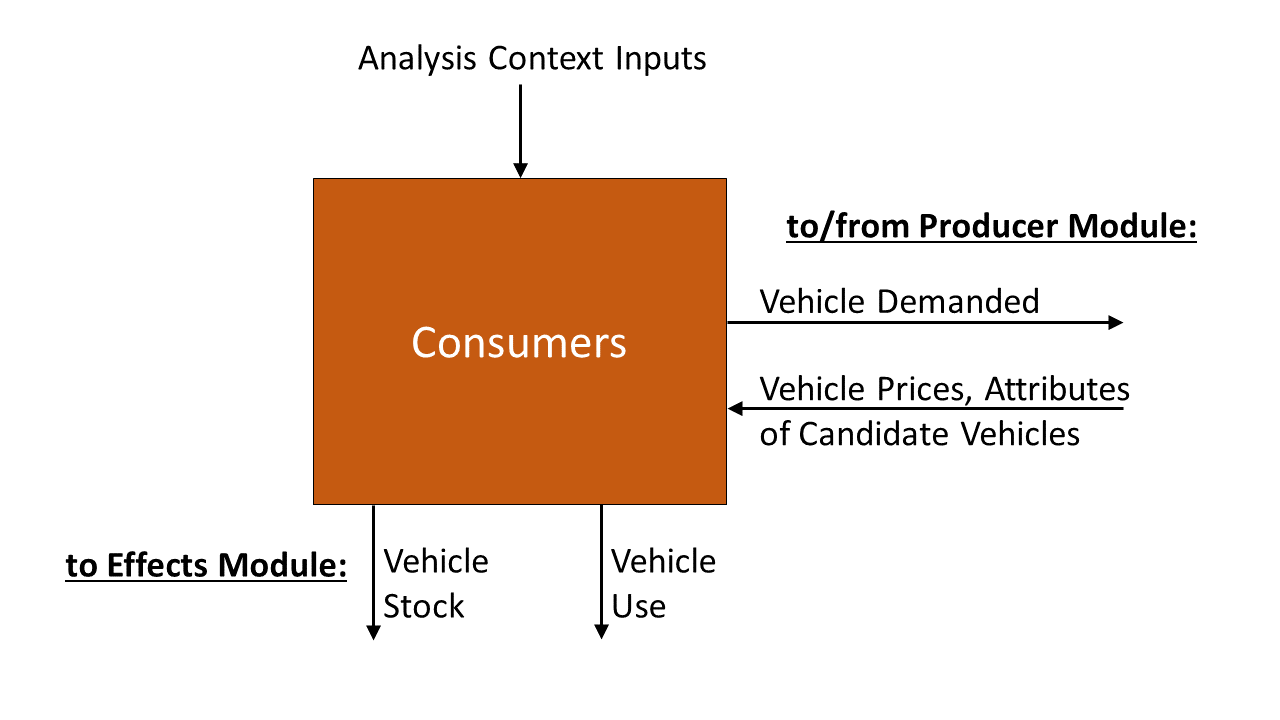
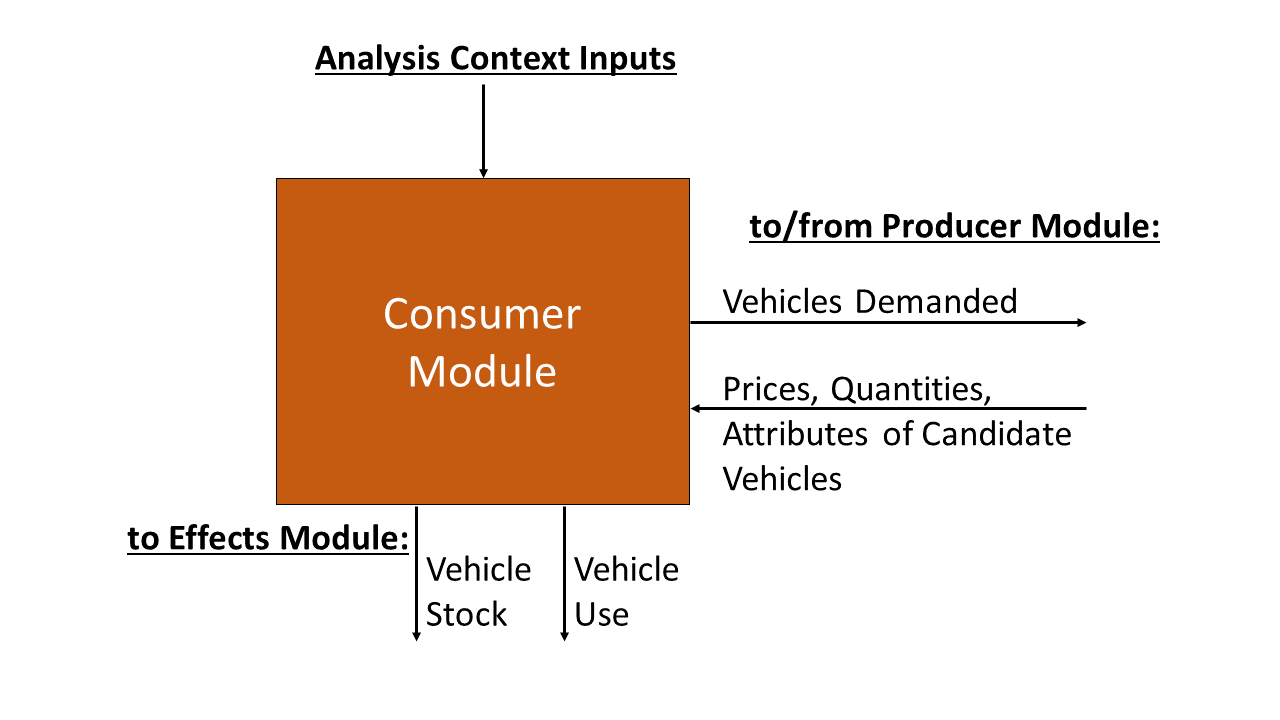
Documentation diagram updates.

diff --git a/doc/source/archalgo.rst b/doc/source/archalgo.rst
@@ -23,7 +23,7 @@ The model boundary of OMEGA as illustrated in :numref:`al_label_modelboundary` d
 
 .. admonition:: Demo example: Analysis timeframe
 
-    For the demo analysis, the base year is defined as calendar year 2019. The year immediately following the base year is automatically used as the analysis start year. The analysis final year in this example is set to 2050 in ‘demo_batch.csv’ input file. Therefore, the analysis timeframe is a 31-year span, inclusive of 2020 and 2050. The selection of 2019 as the base year is automatically derived from the last year of historical data contained in the ‘vehicles.csv’ and ‘ghg_credits.csv’ input files which include the attributes and counts for registered vehicles, and producers’ banked Mg CO2e credits as they actually existed. Note that for this example, base year vehicle inputs are limited to MY2019 new vehicles and their attributes. For an analysis which is intended to project the impacts of various policy alternatives on the reregistration and use of earlier model years, the base year inputs would describe the entire stock of registered vehicles, including MY2018, MY2017, etc.
+    For the demo analysis, the base year is defined as calendar year 2019. The year immediately following the base year is automatically used as the analysis start year. The analysis final year in this example is set to 2050 in the ‘demo_batch.csv’ input file. Therefore, the analysis timeframe is a 31-year span, inclusive of 2020 and 2050. The selection of 2019 as the base year is automatically derived from the last year of historical data contained in the ‘vehicles.csv’ and ‘ghg_credits.csv’ input files. These inputs describe the key attributes and counts for registered vehicles, and producers’ banked Mg CO2e credits as they actually existed. Note that for this example, base year vehicle inputs are limited to MY2019 new vehicles and their attributes. For an analysis which is intended to project the impacts of various policy alternatives on the reregistration and use of earlier model years, the base year inputs would describe the entire stock of registered vehicles, including MY2018, MY2017, etc.
 
 .. sidebar:: Analysis start year and the base year
 
@@ -47,7 +47,7 @@ An OMEGA analysis can be conducted at various levels of resolution depending on 
 
 **Market class resolution:** The level of detail, and type of information used within the Producer and Consumer modules is different. For example, we assume that consumers are not aware of the compliance implications and detailed design choices made by the producer, unless those factors are evident in the price, availability, or key attributes of a vehicle. Therefore, consumer decisions regarding the demanded shares of vehicles are modeled based on vehicle characteristics aggregated at the market class level. The user's determination of the appropriate resolution for the market classes will depend on the chosen specification for share response modeling within the Consumer Module. Note that within the Consumer Module, even while share response is modeled at the market class level, other consumer decisions (like reregistration and use) can be based on more detailed vehicle-level information.
 
-**Producer resolution:** The producers in OMEGA are the regulated entities subject to the policy alternatives being analyzed, and are responsible (together with the consumers and policy) for the decisions about the quantities and characteristics of the vehicles produced. The user can choose to model the producers either as an aggregate entity with the assumption that compliance credits are available in an unrestricted market, or as individual entities.
+**Producer resolution:** The producers in OMEGA are the regulated entities subject to the policy alternatives being analyzed, and are responsible (together with the consumers and policy) for the decisions about the quantities and characteristics of the vehicles produced. The user can choose to model the producers either as an aggregate entity with the assumption that compliance credits are available in an unrestricted market (i.e. 'perfect trading'), or as individual entities with no trading between firms.
 
 .. sidebar:: The Producer's view of consumers
 
@@ -55,21 +55,22 @@ An OMEGA analysis can be conducted at various levels of resolution depending on 
 
 **Consumer resolution:** The approach to account for heterogeneity in consumers is an important consideration when modeling the interaction between producer decisions and the demand for vehicles. By taking advantage of user-definable submodules, a developer can set-up the Consumer Module to account for different responses between consumer segments.
 
-Whatever level of resolution is chosen for an analysis, internal to the model OMEGA will use the information that is suitable for a particular modeling subtask, while still retaining unused detail for downstream modeling and outputting results. For example:
+Whatever the level of resolution, the detail provided in the inputs 1) must meet the requirements of the various modeling subtasks, and 2) will determine the level of detail of the outputs. When preparing analysis inputs, it is therefore necessary to consider the appropriate resolution for each module. For example:
 
-* Within the Policy Module, vehicle details are needed to calculate the target and achieved compliance emissions. This might include information about regulatory classification and any vehicle attributes that are used to define a GHG standard. It is not necessary to differentiate vehicles by production cost, for example, for the purpose of this module’s internal calculations, but that information is kept with the vehicle data object for use in the Producer Module.
+* Within the Policy Module, vehicle details are needed to calculate the target and achieved compliance emissions. This might include information about regulatory classification and any vehicle attributes that are used to define a GHG standard.
 
-* Within the Producer Module, the modeling of producer decisions requires sufficient detail to choose between compliance options based the GHG credits and generalized producer cost associated with each option. Under a fleet averaging policy which does not place any limits on credit transfers between vehicles, OMEGA compares compliance options using overall cost and GHG credits, without the need to consider the details of each vehicle's contribution. Still, the details for individual vehicle attributes are retained for use in the Consumer, Policy, and Effects modules.
+* Within the Producer Module, the modeling of producer decisions requires sufficient detail to choose between compliance options based the GHG credits and generalized producer cost associated with each option.
 
-* Within the Consumer Module, the modeling of consumer decisions requires sufficient detail to distinguish between market classes for representing both the purchase choices among different classes, and the reregistration and use of vehicles within a given class. Because the modeled consumer decisions are not a direct function of the policy definition, it is not necessary to distinguish between, for example, regulatory classes within this module. However, because that regulatory class detail is needed within the Producer and Policy modules, OMEGA retains that vehicle data even within the Consumer Module.
+* Within the Consumer Module, the modeling of consumer decisions requires sufficient detail to distinguish between market classes for representing both the purchase choices among different classes, and the reregistration and use of vehicles within a given class.
 
 .. admonition:: Demo example: Modeling resolution
 
     .. csv-table::
         :widths: auto
+        :header-rows: 1
 
         Modeling element,Where is the resolution defined?,Description of resolution in the demo
-        Vehicle resolution,vehicles.csv,51 2009 base year vehicles differentiated by context size class ('Small Crossover' 'Large Pickup' etc) manufacturer_id and electrification_class ('N' 'HEV' 'EV')
+        Vehicle resolution,vehicles.csv,51 2019 base year vehicles differentiated by context size class ('Small Crossover' 'Large Pickup' etc) manufacturer_id and electrification_class ('N' 'HEV' 'EV')
         Technology package resolution:,simulated_vehicles.csv,578088 candidate vehicles for the analysis timeframe 2020 through 2050 with technology packages for ICE and BEV powertrains
         Technology component resolution:,simulated_vehicles.csv,detailed flags for identifying technology package contents of ac_leakage ac_efficiency high_eff_alternator start_stop hev phev bev weight_reduction  deac_pd deac_fc cegr atk2 gdi turb12 turb11
         Market class resolution,consumer.market_classes.py user-definable submodule and market_classes.csv,4 classes in 2 nested levels with BEV and ICE categories within first tier hauling and nonhauling categories
@@ -130,6 +131,15 @@ Policy Module
 ^^^^^^^^^^^^^
 OMEGA's primary function is to help evaluate and compare policy alternatives which may vary in terms of regulatory program structure and stringency. Because we cannot anticipate all possible policy elements in advance, the code within the Policy Module is generic, to the greatest extent possible. This leaves most of the policy definition to be defined by the user as inputs to the model. Where regulatory program elements cannot be easily provided as inputs, for example the equations used to calculate GHG target values, the code has been organized as user-definable submodules. Much like the definitions recorded in the Code of Federal Regulations (CFR), the combination of inputs and user-definable submodules must unambiguously describe the methodologies for determining vehicle-level emissions targets and certification values, as well as the accounting rules for determining how individual vehicles contribute to a manufacturer's overall compliance determination.
 
+
+:numref:`al_label_plcym_ov` shows the flow of inputs and outputs for the Policy Module. As shown in this simple representation, the policy targets and achieved certification values are output from the module, as a function of the attributes of candidate vehicle presented by the Producer Module.
+
+.. _al_label_plcym_ov:
+.. figure:: _static/al_figures/policymod_ov.png
+    :align: center
+
+    Overview of the Policy Module
+
 In this documentation, *policy alternatives* refer only to what is being evaluated in a particular model run. There will also be relevant inputs and assumptions which are technically policies but are assumed to be fixed (i.e. exogenous) for a given comparison of alternatives. Such assumptions are defined by the user in the *analysis context*, and may reflect a combination of local, state, and federal programs that influence the transportation sector through regulatory and market-based mechanisms. .. todo: [[add examples, and links]] A comparison of policy alternatives requires the user to specify a no-action, or baseline policy, and one or more action alternatives.
 
 Policy alternatives that can be defined within OMEGA fall into two categories: those that involve fleet average emissions standards and rules for the accounting of compliance credits, and those that specify a required share of a specific technology. OMEGA can model either category as an independent alternative, or model both categories together; for example, in the case of a policy which requires a minimum share of a technology while still satisfying fleet averaging requirements.
@@ -139,7 +149,7 @@ In this type of policy, the key principal is that the compliance status of a man
 .. todo: [[insert example transaction and balance tables]]
 
 
-OMEGA is designed so that within an analysis year, credits from all the producer’s vehicles are counted without limitations towards the producer's credit bank. This program feature is known as *fleet averaging*, where vehicles with positive credits may contribute to offset other vehicles with negative credits. The OMEGA model calculates overall credits earned in an analysis year as the difference between the aggregate certification emissions minus the aggregate target emissions. An alternative approach of calculating overall credits as the sum of individual vehicle credits might seem more straightforward, and while technically possible, it is not used for several reasons. First, some credits, such as those generated by advanced technology incentive multipliers, are not easily accounted for on a per-vehicle basis. The transfer of credits between producers can be simulated in OMEGA by representing multiple regulated entities as a single producer, under an assumption that there is no cost or limitation to the transfer of compliance credits among entities. OMEGA is not designed to explicitly model any strategic considerations involved with the transfer of credits between producers. Emissions standards are defined in OMEGA using a range of policy elements, including:
+OMEGA is designed so that within an analysis year, credits from all the producer’s vehicles are counted without limitations towards the producer's credit bank. This program feature is known as *fleet averaging*, where vehicles with positive credits may contribute to offset other vehicles with negative credits. The OMEGA model calculates overall credits earned in an analysis year as the difference between the aggregate certification emissions minus the aggregate target emissions. An alternative approach of calculating overall credits as the sum of individual vehicle credits might seem more straightforward, and while technically possible, it is not used for several reasons. First, some credits, such as those generated by advanced technology incentive multipliers, are not easily accounted for on a per-vehicle basis. The transfer of credits between producers can be simulated in OMEGA by representing multiple regulated entities as a hypothetical 'consolidated' producer, under an assumption that there is no cost or limitation to the transfer of compliance credits among entities. OMEGA is not designed to explicitly model any strategic considerations involved with the transfer of credits between producers. Emissions standards are defined in OMEGA using a range of policy elements, including:
 
 * rules for the accounting of upstream emissions
 * definition of compliance incentives, like multipliers
@@ -168,7 +178,7 @@ OMEGA is designed so that within an analysis year, credits from all the producer
     [add example details]
 
 **Policy alternatives requiring specific technologies:**
-This type of policy requires all, or a portion, of producer’s vehicles to have particular technologies. OMEGA treats these policy requirements as constraints on the producer’s design options. This type of policy alternative input can be defined either separately, or together with a fleet averaging emissions standard; for example, a minimum Zero Emission Vehicle (ZEV) share requirement could be combined with an emissions standard where the certification emissions associated with ZEVs are counted towards the producer’s achieved compliance value.
+This type of policy requires all, or a portion, of a producer’s vehicles to have particular technologies. OMEGA treats these policy requirements as constraints on the producer’s design options. This type of policy alternative input can be defined either separately, or together with a fleet averaging emissions standard; for example, a minimum Zero Emission Vehicle (ZEV) share requirement could be combined with an emissions standard where the certification emissions associated with ZEVs are counted towards the producer’s achieved compliance value.
 
 
 .. admonition:: Demo example: Required sales share
@@ -176,7 +186,7 @@ This type of policy requires all, or a portion, of producer’s vehicles to have
     [add example details]
 
 **Policy representation in the analysis context:**
-Some policies are not modeled in OMEGA as policy alternatives, either because the policy is not aimed directly at the producer as a regulated entity, or because the particular OMEGA analysis is not attempting to evaluate the impact of that policy relative to other alternatives. Still, it is important that the Analysis Context inputs are able to reflect any policies that might significantly influence the producer or consumer decisions. Some examples include:
+Some policies are not modeled in OMEGA as policy alternatives, either because the policy is not aimed directly at the producer as a regulated entity, or because the particular OMEGA analysis is not attempting to evaluate the impact of that policy relative to other alternatives. However, even when a policy is not reflected in any of the analyzed policy alternatives, it may still be appropriate to represent that policy in the Analysis Context inputs. This is especially true when that external policy (or policies) might significantly influence the producer or consumer decisions. Some examples include:
 
 * Fuel tax policy
 * State and local ZEV policies
@@ -460,7 +470,7 @@ or cost effects and physical effects. The Effects Module builds on the outputs o
 context inputs as shown in :numref:`effects_module_figure`.
 
 .. _effects_module_figure:
-.. figure:: _static/mo_figures/effects_module.png
+.. figure:: _static/al_figures/effectsmod_ov.png
     :align: center
 
     Overview of the Effects Module
